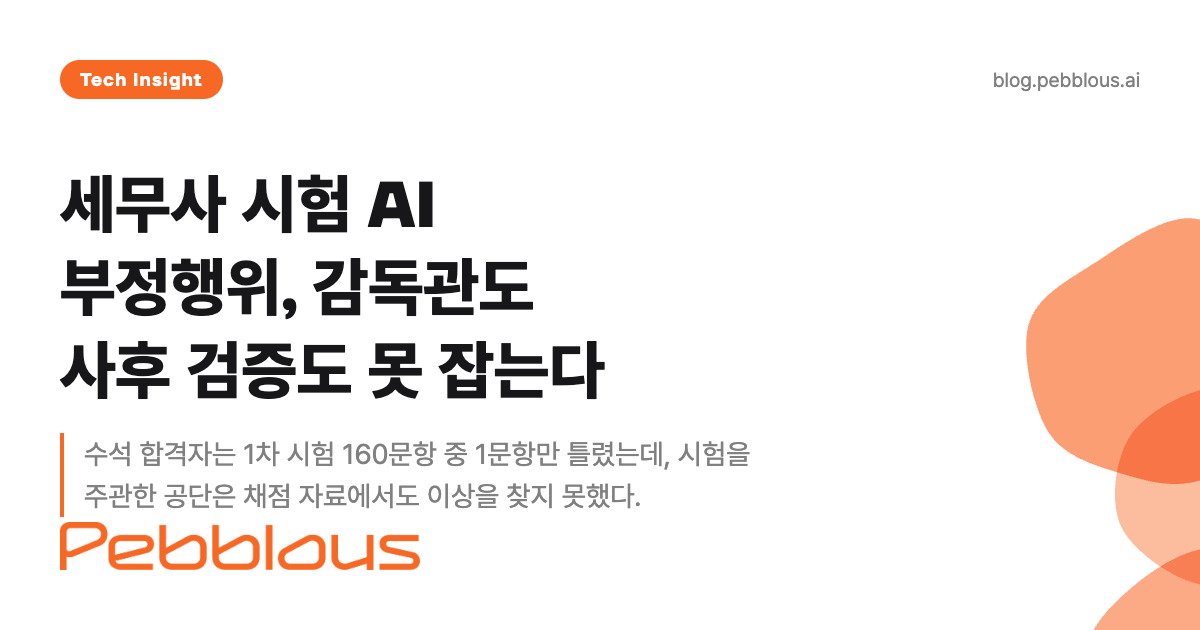
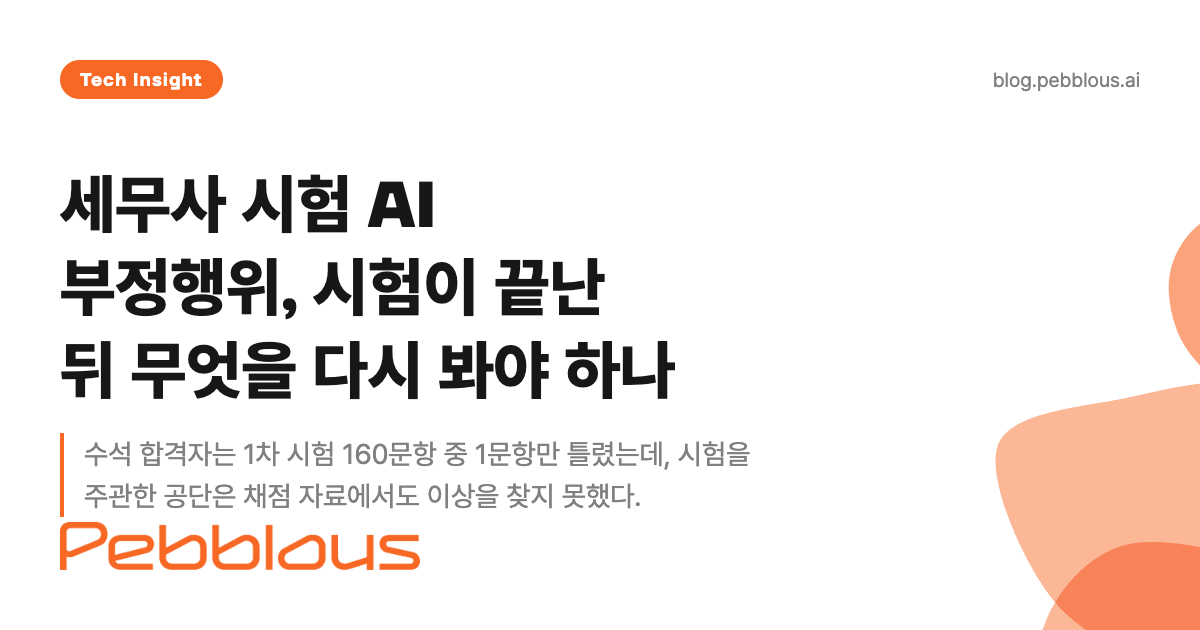
revise(blog): blog/tax-accountant-exam-ai-cheating-detection 수정 — 1. 한국어판만 수정합니다. 기존 부제 문구, 공개 URL과 영문판, 기존 출처 링크 및 기타 무관한

Changed region(s): [[0.8325, 0.3317, 1.0, 1.0], [0.0308, 0.5429, 0.5858, 0.6333], [0.2467, 0.3921, 0.5242, 0.5127]]

diff --git a/blog/tax-accountant-exam-ai-cheating-detection/ko/index.html b/blog/tax-accountant-exam-ai-cheating-detection/ko/index.html
@@ -4,14 +4,14 @@
 <head>
     <meta charset="UTF-8">
     <meta name="viewport" content="width=device-width, initial-scale=1.0">
-    <title>세무사 시험 AI 부정행위 — 감독위원 2명이 놓친 지점과 공단 이상치 선별 기준 정리 | 페블러스</title>
+    <title>세무사 시험 AI 부정행위와 국가자격시험 528종목 전수조사 | 페블러스</title>
     <meta name="author" content="(주)페블러스 데이터 커뮤니케이션팀">
     <meta name="language" content="Korean">
     <meta http-equiv="content-language" content="ko">
     <meta name="copyright" content="© 2026 Pebblous. All rights reserved.">
     <meta name="robots" content="index, follow">
 
-    <meta name="description" content="제63회 세무사 시험 수석 합격자가 초소형 카메라로 문제를 찍어 생성 AI에 보냈다고 자백했다. 1차 시험 160문항 중 1문항만 틀린 답안지였지만 감독위원 보고도 채점 자료 검증도 이상을 찾지 못했다. 사건 뒤 공개된 선별 기준은 모두 채점이 끝난 시점에 계산할 수 있는 값이다.">
+    <meta name="description" content="제63회 세무사 시험 수석 합격자가 초소형 카메라로 문제를 찍어 생성 AI에 보냈다고 자백했다. 보도된 397.5점은 답안지를 다시 볼 신호이지 부정행위의 증거가 아니다. 공단이 528종목 전수조사를 알리며 예로 든 신호와, 그 신호가 제 몫을 하려면 앞에 서야 할 절차를 정리했다.">
     <meta name="keywords" content="세무사 시험 AI 부정행위, 세무사 수석 합격 부정행위, 세무냥이 방지법, 국가자격시험 전수조사, 이상치 탐지, AI 스마트글래스 전파탐지기, 한국산업인력공단, 시험 공정성, 데이터 품질, AI-Ready Data">
 
     <!-- 핵심 검색어 -->
@@ -24,8 +24,8 @@
 
     <!-- Open Graph -->
     <meta property="og:type" content="article">
-    <meta property="og:title" content="세무사 시험 AI 부정행위, 감독관도 사후 검증도 못 잡는다">
-    <meta property="og:description" content="수석 합격자는 1차 시험 160문항 중 1문항만 틀렸는데, 시험을 주관한 공단은 채점 자료에서도 이상을 찾지 못했다. 사건 뒤 발표된 선별 기준은 모두 채점이 끝난 시점에 계산할 수 있는 값이다.">
+    <meta property="og:title" content="세무사 시험 AI 부정행위, 시험이 끝난 뒤 무엇을 다시 봐야 하나">
+    <meta property="og:description" content="수석 합격자는 1차 시험 160문항 중 1문항만 틀렸는데, 시험을 주관한 공단은 채점 자료에서도 이상을 찾지 못했다. 사건 뒤 공개된 신호는 예시이지 검증을 마친 선별 기준이 아니다.">
     <meta property="og:url" content="https://blog.pebblous.ai/blog/tax-accountant-exam-ai-cheating-detection/ko/">
     <meta property="og:image" content="https://blog.pebblous.ai/blog/tax-accountant-exam-ai-cheating-detection/ko/image/index.png">
     <meta property="og:image:width" content="1200">
@@ -37,8 +37,8 @@
 
     <!-- Twitter Card -->
     <meta name="twitter:card" content="summary_large_image">
-    <meta name="twitter:title" content="세무사 시험 AI 부정행위, 감독관도 사후 검증도 못 잡는다">
-    <meta name="twitter:description" content="수석 합격자는 1차 시험 160문항 중 1문항만 틀렸는데, 시험을 주관한 공단은 채점 자료에서도 이상을 찾지 못했다. 사건 뒤 발표된 선별 기준은 모두 채점이 끝난 시점에 계산할 수 있는 값이다.">
+    <meta name="twitter:title" content="세무사 시험 AI 부정행위, 시험이 끝난 뒤 무엇을 다시 봐야 하나">
+    <meta name="twitter:description" content="수석 합격자는 1차 시험 160문항 중 1문항만 틀렸는데, 시험을 주관한 공단은 채점 자료에서도 이상을 찾지 못했다. 사건 뒤 공개된 신호는 예시이지 검증을 마친 선별 기준이 아니다.">
     <meta name="twitter:image" content="https://blog.pebblous.ai/blog/tax-accountant-exam-ai-cheating-detection/ko/image/index.png">
     <meta name="twitter:image:alt" content="시험장 현장 감시와 채점 자료 이상치 탐지가 각각 무엇을 전제하는지 갈라 놓은 표지 이미지">
     <meta name="twitter:site" content="@pebblous_ai">
@@ -88,9 +88,9 @@
                 <h3 class="font-bold themeable-heading mb-4 text-lg">목차</h3>
                 <ul id="toc-links" class="space-y-3 text-sm border-l-2 themeable-toc-border">
                     <li><a href="#executive-summary" class="block pl-4 themeable-toc-link transition-colors duration-200">Executive Summary</a></li>
-                    <li><a href="#two-layers" class="block pl-4 themeable-toc-link transition-colors duration-200">1. 감독위원 바로 앞자리에서 어떻게 가능했나</a></li>
-                    <li><a href="#answer-sheet" class="block pl-4 themeable-toc-link transition-colors duration-200">2. 이상 징후는 답안지에 숫자로 남아 있었다</a></li>
-                    <li><a href="#radio-detector" class="block pl-4 themeable-toc-link transition-colors duration-200">3. 전파탐지기가 찾는 것과 이번 수법은 다르다</a></li>
+                    <li><a href="#two-layers" class="block pl-4 themeable-toc-link transition-colors duration-200">1. 감독위원 두 명이 있던 시험실에서 벌어진 일</a></li>
+                    <li><a href="#answer-sheet" class="block pl-4 themeable-toc-link transition-colors duration-200">2. 397.5점은 재검토 신호이지 증거가 아니다</a></li>
+                    <li><a href="#radio-detector" class="block pl-4 themeable-toc-link transition-colors duration-200">3. 개발 중인 전파탐지기가 겨냥하는 것은 스마트안경이다</a></li>
                     <li><a href="#penalty-bill" class="block pl-4 themeable-toc-link transition-colors duration-200">4. 처벌을 올리는 법안은 적발된 다음에야 작동한다</a></li>
                     <li><a href="#pebblous" class="block pl-4 themeable-toc-link transition-colors duration-200">5. 페블러스가 이 사건에 주목하는 이유</a></li>
                     <li><a href="#faq" class="block pl-4 themeable-toc-link transition-colors duration-200">FAQ</a></li>
@@ -114,7 +114,10 @@
                             제63회 세무사 시험 수석 합격자가 초소형 카메라로 시험지를 찍어 생성 AI에 보내고 스마트폰으로 답을 확인했다고 자백했다. 11월 15일 법률대리인의 유튜브 채널에서 밝힌 내용이고, 같은 날 서울경찰청에 자수서를 냈다. 하루 전까지도 그는 언론 전화 인터뷰에서 의혹을 부인하고 있었다.
                         </p>
                         <p class="themeable-text leading-relaxed mt-4">
-                            시험장에는 사람이 둘 있었다. 한국산업인력공단은 그 시험실에 감독위원 2명이 있었고 1·2차 감독위원 네 명 모두 특이사항이 없었다고 보고했다고 밝혔다. 채점이 끝난 뒤의 검증도 그를 걸러 내지 못했다. 4월 1차 시험에서 그는 160문항 가운데 1문항만 틀려 400점 만점에 397.5점을 받았는데, 그 점수는 사후 검증을 그대로 통과했다. 공단이 사건 뒤 전수조사에 착수하며 공개한 의심 사례 선별 기준은 최근 3년 평균 대비 고득점, 바로 아래 등수와의 점수 차, 과목별 점수 편차, 합격률의 연도별 변동이다. 넷 다 채점이 끝난 시점에 계산할 수 있는 값이다.
+                            시험장에는 사람이 둘 있었다. 한국산업인력공단은 그 시험실에 감독위원 2명이 있었고 1·2차 감독위원 네 명 모두 특이사항이 없었다고 보고했다고 밝혔다. 채점이 끝난 뒤의 검증도 그를 걸러 내지 못했다. 4월 1차 시험 점수는 400점 만점에 397.5점으로 보도됐다. 160문항 가운데 1문항만 틀린 값이지만, 그 자체로 부정행위의 증거는 아니다. 답안지를 다시 볼 이유가 되는 신호일 뿐이다.
+                        </p>
+                        <p class="themeable-text leading-relaxed mt-4">
+                            공단이 전수조사를 알리며 예로 든 신호는 성격이 둘로 갈린다. 최근 3년 평균 대비 고득점, 바로 아래 등수와의 점수 차, 과목별 점수 편차는 응시자 한 사람을 보는 값이다. 합격률의 연도별 변동은 한 시험이나 한 집단을 보는 값이어서, 개인을 가리키지 못한다. 공개된 것은 예시이지 고정된 선별 기준도, 검증을 마친 결과도 아니다.
                         </p>
                         <p class="themeable-text leading-relaxed mt-4">
                             1절부터 4절까지는 보도와 공단·정부 발표에 남은 사실이다. 5절은 페블러스의 해석이다.
@@ -123,12 +126,12 @@
 
                     <h3 class="text-xl font-semibold themeable-heading mt-8 mb-3">주요 수치</h3>
                     <p class="themeable-text leading-relaxed mb-3">감시와 검증이 각각 어디서 멈췄는지는 네 숫자에 드러난다. 새로 만드는 탐지 장비가 완성되는 시점은 올해 치러지는 시험들보다 뒤에 있다.</p>
-                    <p class="themeable-text-secondary text-sm mb-3">출처: <a href="https://www.aitimes.com/news/articleView.html?idxno=217426" target="_blank" rel="noopener" class="underline">AI타임즈</a>·<a href="https://www.hankyung.com/article/202611156922i" target="_blank" rel="noopener" class="underline">한국경제</a> 보도, 한국산업인력공단 전수조사 발표, 한국방송통신전파진흥원 용역 공고.</p>
+                    <p class="themeable-text-secondary text-sm mb-3">출처: <a href="https://www.aitimes.com/news/articleView.html?idxno=217426" target="_blank" rel="noopener" class="underline">AI타임즈</a>·<a href="https://www.hankyung.com/article/202611156922i" target="_blank" rel="noopener" class="underline">한국경제</a> 보도, <a href="https://webzine.hrdkorea.or.kr/section/press/view?id=13805" target="_blank" rel="noopener" class="underline">한국산업인력공단 11월 16일 보도자료</a>, <a href="https://www.kca.kr/" target="_blank" rel="noopener" class="underline">한국방송통신전파진흥원</a> 공고(R26BK01804914-000).</p>
                     <div class="grid grid-cols-2 sm:grid-cols-2 lg:grid-cols-4 gap-4">
                         <div class="themeable-card rounded-xl p-4 text-center">
                             <p class="text-2xl font-bold" style="color: #F86825;">397.5점</p>
-                            <p class="text-sm themeable-text-secondary mt-1">1차 시험 점수</p>
-                            <p class="text-xs themeable-muted mt-1">400점 만점, 160문항 중 1문항 오답. 문항당 2.5점이라 한 문항이 깎인 값이다</p>
+                            <p class="text-sm themeable-text-secondary mt-1">보도된 1차 시험 점수</p>
+                            <p class="text-xs themeable-muted mt-1">400점 만점, 160문항 중 1문항 오답. 다시 볼 이유는 되지만 그 자체가 증거는 아니다</p>
                         </div>
                         <div class="themeable-card rounded-xl p-4 text-center">
                             <p class="text-2xl font-bold" style="color: #F86825;">2명</p>
@@ -138,7 +141,7 @@
                         <div class="themeable-card rounded-xl p-4 text-center">
                             <p class="text-2xl font-bold" style="color: #F86825;">528종목</p>
                             <p class="text-sm themeable-text-secondary mt-1">사건 뒤 착수한 전수조사 범위</p>
-                            <p class="text-xs themeable-muted mt-1">국가기술자격 491종목과 국가전문자격 37종목, 연 응시 인원 약 450만 명</p>
+                            <p class="text-xs themeable-muted mt-1">공단이 시행하는 국가기술자격 491종목과 국가전문자격 37종목</p>
                         </div>
                         <div class="themeable-card rounded-xl p-4 text-center">
                             <p class="text-2xl font-bold" style="color: #F86825;">2027년 2월</p>
@@ -152,15 +155,15 @@
                 <section id="two-layers" class="mb-16 fade-in-card">
                     <div class="flex items-center gap-4 mb-8">
                         <span class="number-badge">1</span>
-                        <h2 class="text-3xl font-bold themeable-heading">감독위원 바로 앞자리에서 어떻게 가능했나</h2>
+                        <h2 class="text-3xl font-bold themeable-heading">감독위원 두 명이 있던 시험실에서 벌어진 일</h2>
                     </div>
 
                     <p class="themeable-text leading-relaxed mb-6">
-                        자수한 응시자는 한원석씨(34)다. 온라인에서 쓰던 이름이 알려지면서 국회가 준비 중인 법안에 그 이름이 붙었다. 그는 4월에 치러진 제63회 세무사 1차 시험에서 160문항 중 159문항을 맞혔고, 7월 2차 시험에서도 높은 점수로 수석 합격했다. 좌석은 1차에서 교단 기준 둘째 줄 중앙, 2차에서 첫째 줄 중앙이었다. 두 번 다 감독위원과 가까운 자리다.
+                        자수한 응시자는 4월에 치러진 제63회 세무사 1차 시험에서 160문항 중 159문항을 맞혔고, 7월 2차 시험에서도 높은 점수로 수석 합격했다고 보도됐다. 온라인에서 쓰던 이름이 알려지면서 국회가 준비 중인 법안에 그 이름이 붙었다.
                     </p>
 
                     <p class="themeable-text leading-relaxed mb-6">
-                        수법은 장비 하나와 통신 하나로 이뤄져 있었다. 초소형 카메라로 시험지를 찍고, 그 이미지를 생성 AI에 보내고, 돌아온 답을 스마트폰에서 확인하는 방식이다. 그는 같은 수법을 공인회계사 1차 시험에도 썼다고 인정했다. 그 시험에서는 불합격했다는 사실이 금융감독원 확인으로 전해졌다.
+                        자백에 담긴 수법은 초소형 카메라로 시험지를 찍어 그 이미지를 생성 AI에 보내고, 돌아온 답을 스마트폰에서 확인하는 방식이다. 본인은 같은 수법을 공인회계사 1차 시험에도 썼다고 인정했다. 그 시험에서는 불합격했다는 사실이 금융감독원 확인으로 전해졌다.
                     </p>
 
                     <p class="themeable-text leading-relaxed mb-6">
@@ -168,7 +171,7 @@
                     </p>
 
                     <p class="themeable-text leading-relaxed mb-6">
-                        본인의 말도 하루 만에 뒤집혔다. 11월 14일 한국경제와의 약 34분 전화 통화에서 그는 AI를 이용한 부정행위 의혹을 말도 안 되는 얘기라고 부인했다. 이튿날 변호인의 유튜브 채널에 나와 입장을 바꿨고, 경제적 어려움과 사업 실패, 서른 중반의 불안을 자백 사유로 들었다.
+                        본인의 말도 하루 만에 뒤집혔다. 11월 14일 한국경제와의 전화 통화에서 그는 AI를 이용한 부정행위 의혹을 말도 안 되는 얘기라고 부인했다. 이튿날 변호인의 유튜브 채널에 나와 입장을 바꿨다.
                     </p>
                 </section>
 
@@ -176,34 +179,41 @@
                 <section id="answer-sheet" class="mb-16 fade-in-card">
                     <div class="flex items-center gap-4 mb-8">
                         <span class="number-badge">2</span>
-                        <h2 class="text-3xl font-bold themeable-heading">이상 징후는 답안지에 숫자로 남아 있었다</h2>
+                        <h2 class="text-3xl font-bold themeable-heading">397.5점은 재검토 신호이지 증거가 아니다</h2>
                     </div>
 
                     <p class="themeable-text leading-relaxed mb-6">
-                        397.5점은 그냥 높은 점수가 아니다. 세무사 1차는 160문항을 400점으로 환산하므로 한 문항이 2.5점이다. 397.5점은 160문항 가운데 정확히 한 문항만 틀렸다는 뜻이고, 이 값은 채점 결과만 있으면 누구나 되짚을 수 있다.
+                        397.5점은 보도로 알려진 점수다. 세무사 1차는 160문항을 400점으로 환산하므로 한 문항이 2.5점이고, 397.5점은 160문항 가운데 한 문항만 틀렸다는 뜻이다. 이 값은 채점 결과만 있으면 되짚을 수 있다. 다만 되짚을 수 있다는 것과 가려낼 수 있다는 것은 다른 말이다. 점수가 높다는 사실은 답안지를 다시 볼 이유가 되지만, 그 자체로는 부정행위를 가리키지 않는다. 그 해 문제가 쉬웠을 수도, 응시자 구성이 달랐을 수도 있다.
                     </p>
 
                     <p class="themeable-text leading-relaxed mb-6">
-                        공단은 사건 뒤 2026년 국가자격시험 AI 활용 부정행위 전수조사에 들어갔다. 대상은 국가기술자격 491종목과 국가전문자격 37종목을 합한 528종목이고, 연간 응시 인원은 약 450만 명이다. 공단이 의심 사례를 가려낼 기준으로 든 것은 넷이다.
+                        비교가 성립하려면 당시의 점수 분포와 바로 아래 등수의 점수를 함께 놓아야 하는데, 그 값들은 공개되지 않았다. 사후 검증이 그때 어떤 수치를 어떤 선으로 봤는지도 마찬가지다. 397.5점이 당시 분포에서 얼마나 떨어져 있었는지는 바깥에서 계산할 수 없다.
+                    </p>
+
+                    <p class="themeable-text leading-relaxed mb-6">
+                        공단은 사건 뒤 2026년 국가자격시험 AI 활용 부정행위 전수조사에 들어갔다. 11월 16일 보도자료가 밝힌 범위는 공단이 시행하는 국가기술자격 491종목과 국가전문자격 37종목, 합해 528종목이다. 공단이 소관하지 않는 시험은 여기에 들어 있지 않다. 공단이 의심 사례를 가려낼 신호로 예시한 것은 넷인데, 보는 단위가 갈린다. 앞의 셋은 응시자 한 사람에게 붙는 값이다.
                     </p>
 
                     <ul class="themeable-text leading-relaxed space-y-3 mb-6 ml-6">
                         <li>최근 3년 평균을 큰 폭으로 웃도는 점수</li>
                         <li>바로 아래 등수와 벌어진 점수 차</li>
                         <li>한 수험생의 과목별 점수 편차</li>
-                        <li>합격률의 연도별 변동</li>
                     </ul>
 
                     <p class="themeable-text leading-relaxed mb-6">
-                        여기에 온라인 커뮤니티 제보와 새로 만든 부정행위 제보센터 접수 건이 더해진다. 걸러진 사례는 세 단계를 거친다. 데이터로 의심 사례를 추리고, 복수의 채점 전문가가 1·2차 답안지를 다시 보고, 전문가 검토회의에서 확정되면 수사를 의뢰한다. 공단은 이미 공개된 건 외에 추가 적발이 있었고, 확인된 사례 가운데 아홉 건을 수사 의뢰했다고 밝혔다.
+                        네 번째인 합격률의 연도별 변동은 성격이 다르다. 한 시험 회차나 한 집단을 보는 값이어서, 어느 응시자를 가리키는 데는 쓸 수 없다. 특정 회차를 들여다볼지 말지를 정하는 입구에 가깝다. 두 종류를 섞어 쓰면 집단에서 나온 변동이 개인의 혐의처럼 읽힌다.
                     </p>
 
                     <p class="themeable-text leading-relaxed mb-6">
-                        다만 전수조사라는 말의 범위는 생각보다 좁다. 528종목의 답안지를 모두 다시 채점한다는 뜻이 아니라, 위 네 지표로 의심 사례를 추려 들여다볼 대상을 전체 종목으로 넓힌다는 뜻이다. 세무사 시험은 따로 떼어 최근 3~5년 합격자의 성적을 다시 보는 작업도 함께 돌아가고 있다. 지표가 도는 시점은 여전히 시험이 끝난 뒤이고, 실효성을 묻는 비판도 그래서 나왔다.
+                        여기에 온라인 커뮤니티 제보와 새로 만든 부정행위 제보센터 접수 건이 더해진다. 걸러진 사례는 단계를 밟는다. 데이터로 의심 사례를 추리고, 복수의 채점 전문가가 1·2차 답안지를 다시 보고, 명확히 의심된다고 판단될 때 수사를 의뢰한다. 수사 의뢰는 조사의 시작이지 부정행위가 확정됐다는 뜻이 아니다. 같은 보도자료에 적힌 스마트안경 적발 및 수사의뢰 12건은 올해 앞서 처리한 사례이고, 이번 전수조사가 새로 찾아낸 결과가 아니다.
                     </p>
 
                     <p class="themeable-text leading-relaxed mb-6">
-                        네 기준 가운데 앞의 둘은 이번 답안지와 정면으로 맞닿는다. 최근 3년 평균 대비 고득점과 바로 아래 등수와의 점수 차는, 160문항 중 한 문항만 틀린 수석 답안지를 설명하기 위해 만들어진 것처럼 보일 만큼 겹친다. 그런데 이 기준들은 사건이 터진 뒤에 공개됐고, 그전에 돌아간 사후 검증은 이상 징후를 찾지 못했다고 기록돼 있다.
+                        전수조사라는 말의 범위도 생각보다 좁다. 528종목의 답안지를 모두 다시 채점한다는 뜻이 아니라, 위 신호로 의심 사례를 추려 들여다볼 대상을 전체 종목으로 넓힌다는 뜻이다. 세무사 시험은 따로 떼어 최근 3~5년 합격자의 성적을 다시 보는 작업도 함께 돌아가고 있다. 지표가 도는 시점은 여전히 시험이 끝난 뒤이고, 실효성을 묻는 비판도 그래서 나왔다.
+                    </p>
+
+                    <p class="themeable-text leading-relaxed mb-6">
+                        공개된 신호가 이번 답안지를 실제로 걸러 냈을지는 알 수 없다. 넷은 전수조사를 알리며 든 예시이지 검증을 마친 기준이 아니고, 어느 선을 넘겨야 걸리는지도 밝혀지지 않았다. 반대로 그전에는 아무 기준도 없었다고 말할 근거 역시 없다. 밖에서 확인되는 사실은 둘뿐이다. 그때의 검증은 이 답안지를 걸러 내지 못했고, 기준의 내용은 사건 뒤에야 일부가 공개됐다.
                     </p>
                 </section>
 
@@ -211,11 +221,15 @@
                 <section id="radio-detector" class="mb-16 fade-in-card">
                     <div class="flex items-center gap-4 mb-8">
                         <span class="number-badge">3</span>
-                        <h2 class="text-3xl font-bold themeable-heading">전파탐지기가 찾는 것과 이번 수법은 다르다</h2>
+                        <h2 class="text-3xl font-bold themeable-heading">개발 중인 전파탐지기가 겨냥하는 것은 스마트안경이다</h2>
                     </div>
 
                     <p class="themeable-text leading-relaxed mb-6">
-                        한국방송통신전파진흥원은 AI 스마트글래스 전파탐지기기 개발 용역을 발주했다. 사업비는 5,000만 원, 조건은 계약 뒤 70일 안에 시제품을 내는 것이다. 제안서 평가는 11월 20일로 잡혀 있고 개발 완료 목표는 2027년 2월이라, 11월 19일 치러지는 수능에는 쓸 수 없다는 점을 진흥원도 확인했다. 발주 시점은 보도마다 10월 26일과 11월 2일로 엇갈리는데, 어느 쪽이든 11월 15일의 자백보다는 앞선다.
+                        한국방송통신전파진흥원은 AI 스마트글래스 전파탐지기기 개발 용역을 발주했다. 공고번호는 R26BK01804914-000이다. 사업비는 5,000만 원, 조건은 계약 뒤 70일 안에 시제품을 내는 것이다. 제안서 평가는 11월 20일로 잡혀 있고 개발 완료 목표는 2027년 2월이라, 11월 19일 치러지는 수능에는 쓸 수 없다는 점을 진흥원도 확인했다.
+                    </p>
+
+                    <p class="themeable-text leading-relaxed mb-6">
+                        발주 날짜가 두 개로 읽히는 것은 절차가 두 단계이기 때문이다. 진흥원 기준으로 10월 26일은 사전규격을 공개한 날이고, 11월 2일은 입찰을 공고한 날이다. 둘 다 11월 15일의 자백보다 앞선다. 이 사업이 만들려는 것은 스마트안경을 찾는 장비다.
                     </p>
 
                     <p class="themeable-text leading-relaxed mb-6">
@@ -223,45 +237,40 @@
                     </p>
 
                     <p class="themeable-text leading-relaxed mb-6">
-                        장비가 작동하는 방식은 두 단계다. 먼저 저전력 블루투스 신호로 스마트안경의 존재와 제조사를 가려내고, 그다음 와이파이 통신량과 송수신 패턴을 분석해 문제를 찍어 외부로 보내는 듯한 움직임을 찾는다. 가로 14cm·세로 9.5cm로 보조배터리만 한 크기이고, 감독관이 들고 다니다 의심 신호가 잡히면 화면과 LED와 진동으로 알린다. 개발의 핵심 난제는 스마트폰·스마트워치·무선이어폰을 스마트안경과 구분해 헛경보를 줄이는 일이다.
+                        용역이 정한 탐지 대상은 스마트안경이다. 감독관이 들고 다니며 시험실에서 쓰는 휴대 장비를 전제로 하고, 개발의 핵심 난제로 꼽힌 것은 스마트폰·스마트워치·무선이어폰을 스마트안경과 구분해 헛경보를 줄이는 일이다. 일상적으로 쓰이는 기기를 그대로 경보로 올리면 시험장에서 쓸 수 없기 때문이다.
                     </p>
 
                     <p class="themeable-text leading-relaxed mb-6">
-                        그 난제가 이번 사건과 어긋나는 자리다. 한씨가 쓴 장비는 스마트안경이 아니라 초소형 카메라였고, 답을 받은 통로는 스마트폰이었다. 1단계가 찾도록 설계된 대상은 그의 손에 없었고, 2단계가 헛경보를 막으려고 걸러 내야 하는 쪽에 그의 단말이 놓인다. 국민의힘 장동혁 대표도 스마트안경만 잡는다고 막을 수 있는 상황이 아니라고 말했다.
+                        이번에 자백으로 알려진 장비는 초소형 카메라와 스마트폰이었다. 둘은 용역이 겨냥한 스마트안경과 다른 기기이고, 스마트폰은 헛경보를 줄이려고 구분해 내야 하는 쪽에 놓인다. 장비가 완성되기 전이라 이런 수법을 실제로 잡아낼지 놓칠지는 단정할 수 없다. 확인되는 것은 설계된 탐지 대상과 이번에 쓰인 기기가 같지 않다는 사실까지다. 국민의힘 장동혁 대표도 스마트안경만 잡는다고 막을 수 있는 상황이 아니라고 말했다.
                     </p>
 
                     <figure class="my-8">
-                        <svg viewBox="0 0 680 270" class="w-full max-w-[660px] h-auto mx-auto rounded-xl border themeable-border" style="background:var(--card-bg, #ffffff)" role="img" aria-label="전파탐지기의 2단계 탐지 구조에 이번 사건 장비를 겹쳐 놓은 도식. 1단계는 블루투스 신호로 스마트안경의 존재와 제조사를 찾는데 초소형 카메라는 이 신호를 내지 않는다. 2단계는 와이파이 통신 패턴으로 외부 전송 의심 행위를 찾는데 스마트폰은 헛경보를 막으려고 걸러 내야 하는 쪽에 있다.">
-                            <text x="24" y="28" font-size="12.5" font-weight="600" fill="var(--text-secondary)">전파탐지기 2단계와 이번 장비가 어긋나는 자리</text>
+                        <svg viewBox="0 0 680 230" class="w-full max-w-[660px] h-auto mx-auto rounded-xl border themeable-border" style="background:var(--card-bg, #ffffff)" role="img" aria-label="용역이 정한 탐지 대상과 이번에 자백으로 알려진 기기를 나란히 놓은 도식. 왼쪽은 개발 중인 장비가 겨냥하는 스마트안경, 오른쪽은 이번에 쓰인 초소형 카메라와 스마트폰이며, 스마트폰은 헛경보를 줄이려고 구분해 내야 하는 쪽에 놓인다.">
+                            <text x="24" y="28" font-size="12.5" font-weight="600" fill="var(--text-secondary)">용역이 정한 탐지 대상과 이번에 알려진 기기</text>
 
-                            <rect x="30" y="48" width="290" height="110" rx="10" fill="none" stroke="var(--text-muted)" stroke-width="1.2" opacity="0.6"/>
-                            <text x="175" y="72" text-anchor="middle" font-size="12.5" font-weight="600" fill="var(--text-secondary)">1단계 · 블루투스 탐지</text>
-                            <text x="175" y="94" text-anchor="middle" font-size="11" fill="var(--text-muted)">찾는 대상: 스마트안경의 신호</text>
-                            <text x="175" y="114" text-anchor="middle" font-size="11" fill="var(--text-muted)">존재와 제조사 확인</text>
-                            <text x="175" y="140" text-anchor="middle" font-size="11" font-weight="600" fill="#F86825">초소형 카메라엔 이 신호가 없다</text>
+                            <rect x="30" y="52" width="290" height="140" rx="10" fill="none" stroke="var(--text-muted)" stroke-width="1.2" opacity="0.6"/>
+                            <text x="175" y="80" text-anchor="middle" font-size="12.5" font-weight="600" fill="var(--text-secondary)">개발 중인 전파탐지기</text>
+                            <text x="175" y="106" text-anchor="middle" font-size="11" fill="var(--text-muted)">탐지 대상: 스마트안경</text>
+                            <text x="175" y="128" text-anchor="middle" font-size="11" fill="var(--text-muted)">감독관이 들고 다니는 휴대 장비</text>
+                            <text x="175" y="158" text-anchor="middle" font-size="11" fill="var(--text-muted)">핵심 난제: 일상 기기와 구분해</text>
+                            <text x="175" y="176" text-anchor="middle" font-size="11" fill="var(--text-muted)">헛경보 줄이기</text>
 
-                            <text x="340" y="108" text-anchor="middle" font-size="16" fill="var(--text-muted)">→</text>
+                            <text x="340" y="126" text-anchor="middle" font-size="16" fill="var(--text-muted)">↔</text>
 
-                            <rect x="360" y="48" width="290" height="110" rx="10" fill="none" stroke="var(--text-muted)" stroke-width="1.2" opacity="0.6"/>
-                            <text x="505" y="72" text-anchor="middle" font-size="12.5" font-weight="600" fill="var(--text-secondary)">2단계 · 와이파이 분석</text>
-                            <text x="505" y="94" text-anchor="middle" font-size="11" fill="var(--text-muted)">찾는 대상: 통신량·송수신 패턴</text>
-                            <text x="505" y="114" text-anchor="middle" font-size="11" fill="var(--text-muted)">외부 전송 의심 행위 탐지</text>
-                            <text x="505" y="140" text-anchor="middle" font-size="11" font-weight="600" fill="#F86825">스마트폰은 걸러내야 하는 쪽</text>
-
-                            <line x1="195" y1="158" x2="260" y2="192" stroke="var(--text-muted)" stroke-width="1.2" stroke-dasharray="4,3"/>
-                            <line x1="485" y1="158" x2="420" y2="192" stroke="var(--text-muted)" stroke-width="1.2" stroke-dasharray="4,3"/>
-
-                            <rect x="175" y="192" width="330" height="54" rx="10" fill="none" stroke="#F86825" stroke-width="1.8"/>
-                            <text x="340" y="214" text-anchor="middle" font-size="12.5" font-weight="600" fill="#F86825">한씨가 쓴 장비</text>
-                            <text x="340" y="234" text-anchor="middle" font-size="11" fill="var(--text-secondary)">초소형 카메라 + 스마트폰</text>
+                            <rect x="360" y="52" width="290" height="140" rx="10" fill="none" stroke="#F86825" stroke-width="1.8"/>
+                            <text x="505" y="80" text-anchor="middle" font-size="12.5" font-weight="600" fill="#F86825">이번에 알려진 기기</text>
+                            <text x="505" y="106" text-anchor="middle" font-size="11" fill="var(--text-secondary)">초소형 카메라 + 스마트폰</text>
+                            <text x="505" y="128" text-anchor="middle" font-size="11" fill="var(--text-muted)">스마트안경과 다른 기기</text>
+                            <text x="505" y="158" text-anchor="middle" font-size="11" font-weight="600" fill="#F86825">스마트폰은 구분해 내야 하는 쪽</text>
+                            <text x="505" y="176" text-anchor="middle" font-size="11" fill="var(--text-muted)">실제 탐지 여부는 확인되지 않았다</text>
                         </svg>
                         <figcaption class="text-xs themeable-muted text-center mt-2">
-                            ▲ 페블러스 원본 도식. 전파탐지기의 2단계 탐지 구조에 이번 사건 장비를 겹쳐 놓았다
+                            ▲ 페블러스 원본 도식. 용역 공고가 적은 탐지 대상과 이번 자백에 나온 기기를 나란히 놓았다
                         </figcaption>
                     </figure>
 
                     <p class="themeable-text leading-relaxed mb-6">
-                        이 장비를 쓸모없다고 말하려는 것은 아니다. 올해 소방설비기사와 정보처리기사 등에서 스마트안경을 쓴 부정행위가 실제로 적발됐고, 그 수법에는 현장 탐지가 가장 빠른 답이다. 스마트안경 수법만 따로 세면 지난달 말 기준 올해 국가자격시험에서 적발된 건수는 여섯 건으로, 사건 뒤 전수조사에서 수사 의뢰로 넘어간 아홉 건과는 세는 대상이 다르다. 다만 현장 장비는 탐지 대상 목록에 올라 있는 것만 찾는다. 수법이 하나 바뀌면 그 목록도 그만큼 다시 써야 한다.
+                        이 장비를 쓸모없다고 말하려는 것은 아니다. 공단은 11월 16일 보도자료에서 올해 스마트안경 적발 및 수사의뢰 12건을 이미 처리했다고 밝혔다. 이번 전수조사가 새로 찾아낸 수가 아니라 그에 앞서 쌓인 건수다. 스마트안경을 쓰는 수법이 실제로 있었다는 뜻이고, 그 수법에는 현장 탐지가 가장 빠른 답이다. 다만 현장 장비는 탐지 대상 목록에 올라 있는 것을 찾는다. 수법이 하나 바뀌면 그 목록도 그만큼 다시 써야 한다.
                     </p>
                 </section>
 
@@ -277,7 +286,7 @@
                     </p>
 
                     <p class="themeable-text leading-relaxed mb-6">
-                        법안보다 먼저 움직인 것은 행정 처분이다. 고용노동부와 공단은 이 합격자에게 시험 무효와 5년간 응시 자격 정지를 사전 통지하는 절차에 들어갔고, 업무방해 혐의로 형사 고소하기로 했다. 위계공무집행방해와 업무방해는 조문이 다르고, 지금은 두 죄명이 함께 거론되는 단계다. 재정경제부와 국세청, 공단은 대응 TF 첫 회의를 열었다. 지금 논의되는 5년에서 10년이라는 숫자는, 이미 이 사건에 적용되고 있는 5년을 두 배로 늘리자는 말이다.
+                        법안보다 먼저 움직인 것은 행정 절차다. <a href="https://www.moel.go.kr/news/enews/report/enewsView.do?news_seq=20256" target="_blank" rel="noopener" class="underline">고용노동부 발표</a>에 따르면 고용노동부와 공단은 이 응시자에 대해 시험 무효화와 합격 취소, 5년 응시 제한 절차를 추진하고 있고, 업무방해 혐의로 형사 고소하기로 했다. 추진 중인 절차이지 처분이 확정된 단계는 아니다. 위계공무집행방해와 업무방해는 조문이 다르고, 지금은 두 죄명이 함께 거론되고 있다. 재정경제부와 국세청, 공단은 대응 TF 첫 회의를 열었다.
                     </p>
 
                     <p class="themeable-text leading-relaxed mb-6">
@@ -297,7 +306,7 @@
                     </div>
 
                     <p class="themeable-text leading-relaxed mb-6">
-                        시험장을 지켜 온 두 장치는 성격이 다르다. 현장 감시는 수법을 알아야 작동한다. 무엇을 찾을지 먼저 적어야 장비를 만들 수 있고, 적지 않은 것은 눈앞에 있어도 지나간다. 반면 채점 자료의 이상치 탐지는 수법을 몰라도 작동한다. 어떻게 맞혔는지가 아니라 결과가 다른 응시자들과 얼마나 떨어져 있는지만 보기 때문이다.
+                        시험장을 지켜 온 두 장치는 성격이 다르다. 현장 감시는 수법을 알아야 작동한다. 무엇을 찾을지 먼저 적어야 장비를 만들 수 있고, 적지 않은 것은 눈앞에 있어도 지나간다. 채점 자료를 보는 쪽은 수법을 몰라도 움직인다. 어떻게 맞혔는지가 아니라 결과가 다른 응시자들과 얼마나 떨어져 있는지를 보기 때문이다. 다만 그렇게 걸리는 것은 혐의가 아니라 검토 대상이다. 통계로 도드라지는 답안지는 사람이 다시 볼 목록에 오를 뿐이다.
                     </p>
 
                     <figure class="my-8">
@@ -313,28 +322,28 @@
                             <rect x="360" y="56" width="290" height="128" rx="10" fill="none" stroke="#F86825" stroke-width="1.8"/>
                             <text x="505" y="82" text-anchor="middle" font-size="12.5" font-weight="600" fill="#F86825">채점 자료 이상치 탐지</text>
                             <text x="505" y="108" text-anchor="middle" font-size="11" fill="var(--text-muted)">미리 알아야 하는 것: 비교 기준</text>
-                            <text x="505" y="130" text-anchor="middle" font-size="11" fill="var(--text-muted)">지난 몇 해의 점수 분포와 선</text>
-                            <text x="505" y="160" text-anchor="middle" font-size="11" fill="#F86825">수법을 몰라도 결과로 걸린다</text>
+                            <text x="505" y="130" text-anchor="middle" font-size="11" fill="var(--text-muted)">회차별 난이도와 응시자 구성</text>
+                            <text x="505" y="160" text-anchor="middle" font-size="11" fill="#F86825">수법을 몰라도 검토 대상은 좁힌다</text>
                         </svg>
                         <figcaption class="text-xs themeable-muted text-center mt-2">
-                            ▲ 페블러스 원본 도식. 공단이 공개한 선별 기준과 진흥원 용역 공고에 적힌 탐지 방식을 나란히 놓았다
+                            ▲ 페블러스 원본 도식. 공단이 예로 든 신호와 진흥원 용역 공고가 정한 탐지 대상을 나란히 놓았다. 어느 쪽도 그 자체로 부정행위를 확정하지 않는다
                         </figcaption>
                     </figure>
 
                     <p class="themeable-text leading-relaxed mb-6">
-                        다만 뒤쪽이 작동하려면 사건 전에 세 가지가 이미 있어야 한다. 비교할 과거 분포가 같은 형식으로 쌓여 있어야 하고, 어디서부터를 이상으로 볼지 선이 그어져 있어야 하고, 걸린 사례를 사람이 다시 볼 절차가 있어야 한다. 공단이 이번에 공개한 네 기준은 첫 번째를 전제로 한다. 최근 3년 평균도, 등수 사이의 점수 차도, 과목별 편차도, 응시자 점수가 연도별로 정리돼 있어야 계산되는 값이다.
+                        다만 그 목록이 쓸 만하려면 사건 전에 몇 가지가 이미 서 있어야 한다. 첫째는 비교다. 회차마다 문제의 난이도가 다르고 응시자 구성도 달라지니, 그 차이를 고려하지 않은 점수 비교는 다른 해의 쉬운 시험을 이상으로 만들어 버린다. 둘째는 오탐 점검이다. 정상적으로 공부해 잘 본 응시자가 목록에 올라오는 비율을 재 보지 않으면, 선을 어디에 그었는지 아무도 설명할 수 없다. 공단이 예로 든 신호도 응시자 점수가 연도별로 같은 형식으로 쌓여 있어야 계산된다.
                     </p>
 
                     <p class="themeable-text leading-relaxed mb-6">
-                        그 값들은 사건 전에도 있었다. 4월 1차 채점이 끝난 순간 397.5점도, 2위와의 격차도 이미 자료 안에 있었다. 나중에 만들어진 것은 자료가 아니라 선과 절차다. 공단이 사후 검증에서 정확히 어떤 값을 어떤 기준으로 봤는지는 공개되지 않았으니, 기준이 아예 없었다고까지 단정할 수는 없다. 분명한 것은 그때의 기준이 이 답안지를 걸러 내지 못했고, 지금 발표된 기준은 걸러 낼 법해 보인다는 점이다.
+                        셋째는 신호 다음에 오는 절차다. 통계로 좁힌 대상은 독립적인 증거로 뒷받침되어야 하고, 복수의 사람이 따로 검토해야 하며, 당사자에게 소명할 기회가 주어져야 한다. 이 순서가 지켜질 때 통계는 제 몫을 한다. 사람에게 볼 곳을 알려 주는 일까지다. 어떤 수치가 선을 넘었다는 이유만으로 제재가 자동으로 따라붙는 설계는, 틀렸을 때 되돌릴 자리를 남기지 않는다. 시험 보안을 다루는 일반 원칙은 미국심리학회의 <a href="https://www.apa.org/science/programs/testing/test-security-faq.html" target="_blank" rel="noopener" class="underline">시험 보안 문답</a> 같은 자료에 정리돼 있다. 한국의 법제나 공단의 운영 방침을 설명하는 문서는 아니고, 이런 원칙을 견주어 볼 참고 자료다.
                     </p>
 
                     <p class="themeable-text leading-relaxed mb-6">
-                        데이터를 다루는 일에서 되풀이되는 모양이 여기 있다. 자료가 없어서 못 보는 경우와, 자료는 있는데 무엇을 이상으로 볼지 정해 두지 않아 못 보는 경우는 전혀 다른 문제이고, 둘 다 겉으로는 똑같이 이상 없음으로 보고된다. 사건이 나야 기준이 만들어지는 체계에서는 매번 사건이 기준보다 먼저 온다.
+                        데이터를 다루는 일에서 되풀이되는 모양이 여기 있다. 자료가 없어서 못 보는 경우와, 자료는 있는데 무엇을 이상으로 볼지 정해 두지 않아 못 보는 경우는 전혀 다른 문제이고, 둘 다 겉으로는 똑같이 이상 없음으로 보고된다. 이번 사건에서 밖으로 확인되는 것은 그때의 검증이 이 답안지를 걸러 내지 못했다는 사실까지다. 어느 쪽이었는지는 그때 무엇을 어떤 선으로 봤는지가 공개되어야 갈린다.
                     </p>
 
                     <p class="themeable-text leading-relaxed mb-6">
-                        전수조사라는 말도 같은 자리에서 읽힌다. 528종목을 한 번 훑는 일이 있고, 시험이 끝날 때마다 같은 지표가 자동으로 돌아 상위 몇 건이 사람에게 올라오는 일이 있다. 앞쪽은 한 번의 사업이고 뒤쪽은 상시로 도는 데이터 파이프라인이다. 둘 중 무엇을 만들었는지는 다음 시험이 끝난 다음 주에 드러난다.
+                        전수조사라는 말도 같은 자리에서 읽힌다. 528종목을 한 번 훑는 일이 있고, 시험이 끝날 때마다 같은 신호가 자동으로 돌아 몇 건이 사람의 검토 목록에 올라오는 일이 있다. 앞쪽은 한 번의 사업이고 뒤쪽은 상시로 도는 데이터 파이프라인이다. 둘 중 무엇을 만들었는지는 다음 시험이 끝난 다음 주에 드러난다.
                     </p>
                 </section>
 
@@ -357,17 +366,25 @@
                         </button>
                     </div>
 
+                    <h3 class="text-xl font-semibold themeable-heading mb-4">1차 자료</h3>
+                    <ul class="reference-list mb-6">
+                        <li><span class="ref-num">1.</span><span class="ref-body">한국산업인력공단. (2026.11.16.). "<a href="https://webzine.hrdkorea.or.kr/section/press/view?id=13805" target="_blank" rel="noopener">보도자료</a>." 전수조사 범위(국가기술자격 491종목·국가전문자격 37종목), 의심 사례 선별·검토 절차, 올해 스마트안경 적발 및 수사의뢰 12건.</span></li>
+                        <li><span class="ref-num">2.</span><span class="ref-body">고용노동부. (2026.11.). "<a href="https://www.moel.go.kr/news/enews/report/enewsView.do?news_seq=20256" target="_blank" rel="noopener">보도자료</a>." 시험 무효화·합격 취소·5년 응시 제한 절차 추진, 업무방해 형사 고소 방침.</span></li>
+                        <li><span class="ref-num">3.</span><span class="ref-body">한국방송통신전파진흥원. (2026). "AI 스마트글래스 전파탐지기기 개발 용역" 공고 R26BK01804914-000 — 10월 26일 사전규격 공개, 11월 2일 입찰공고. 발주기관 <a href="https://www.kca.kr/" target="_blank" rel="noopener">한국방송통신전파진흥원</a>.</span></li>
+                        <li><span class="ref-num">4.</span><span class="ref-body">American Psychological Association. "<a href="https://www.apa.org/science/programs/testing/test-security-faq.html" target="_blank" rel="noopener">Test Security FAQ</a>." 시험 보안의 일반 원칙 참고 자료(한국 법제·공단 운영 방침과는 무관).</span></li>
+                    </ul>
+
                     <h3 class="text-xl font-semibold themeable-heading mb-4">사건 보도</h3>
                     <ul class="reference-list mb-6">
-                        <li><span class="ref-num">1.</span><span class="ref-body">AI타임즈. (2026.11.15.). "<a href="https://www.aitimes.com/news/articleView.html?idxno=217426" target="_blank" rel="noopener">세무사 시험 수석 합격자 "생성 AI로 부정행위" 자백</a>."</span></li>
-                        <li><span class="ref-num">2.</span><span class="ref-body">한국경제. (2026.11.15.). "<a href="https://www.hankyung.com/article/202611156922i" target="_blank" rel="noopener">세무사 수석 충격 자백…초소형 카메라로 찍어 AI로 전송</a>."</span></li>
-                        <li><span class="ref-num">3.</span><span class="ref-body">한국경제. (2026.11.16.). "<a href="https://www.hankyung.com/article/2026111602241" target="_blank" rel="noopener">정부 "수능날 스마트폰 수거·공공 와이파이 차단"</a>."</span></li>
+                        <li><span class="ref-num">5.</span><span class="ref-body">AI타임즈. (2026.11.15.). "<a href="https://www.aitimes.com/news/articleView.html?idxno=217426" target="_blank" rel="noopener">세무사 시험 수석 합격자 "생성 AI로 부정행위" 자백</a>."</span></li>
+                        <li><span class="ref-num">6.</span><span class="ref-body">한국경제. (2026.11.15.). "<a href="https://www.hankyung.com/article/202611156922i" target="_blank" rel="noopener">세무사 수석 충격 자백…초소형 카메라로 찍어 AI로 전송</a>."</span></li>
+                        <li><span class="ref-num">7.</span><span class="ref-body">한국경제. (2026.11.16.). "<a href="https://www.hankyung.com/article/2026111602241" target="_blank" rel="noopener">정부 "수능날 스마트폰 수거·공공 와이파이 차단"</a>."</span></li>
                     </ul>
 
                     <h3 class="text-xl font-semibold themeable-heading mb-4">제도·예산 보도</h3>
                     <ul class="reference-list mb-6">
-                        <li><span class="ref-num">4.</span><span class="ref-body">싱글리스트. (2026.11.13.). "<a href="https://www.slist.kr/news/articleView.html?idxno=781437" target="_blank" rel="noopener">국가자격시험 AI 스마트안경 부정행위 대응…65억여원 증액 추진</a>."</span></li>
-                        <li><span class="ref-num">5.</span><span class="ref-body">김진욱. 딜사이트. (2026.11.16.). "<a href="https://dealsite.co.kr/articles/172909" target="_blank" rel="noopener">세무사 시험에서 국가자격시험 전반으로…정부, AI 부정행위 조사</a>."</span></li>
+                        <li><span class="ref-num">8.</span><span class="ref-body">싱글리스트. (2026.11.13.). "<a href="https://www.slist.kr/news/articleView.html?idxno=781437" target="_blank" rel="noopener">국가자격시험 AI 스마트안경 부정행위 대응…65억여원 증액 추진</a>."</span></li>
+                        <li><span class="ref-num">9.</span><span class="ref-body">김진욱. 딜사이트. (2026.11.16.). "<a href="https://dealsite.co.kr/articles/172909" target="_blank" rel="noopener">세무사 시험에서 국가자격시험 전반으로…정부, AI 부정행위 조사</a>."</span></li>
                     </ul>
                 </section>
 
@@ -405,9 +422,9 @@
               },
               "recordedAt": "2026-11-16T18:17:42.271Z"
             },
-            mainTitle: "세무사 시험 AI 부정행위, 감독관도 사후 검증도 못 잡는다",
+            mainTitle: "세무사 시험 AI 부정행위, 시험이 끝난 뒤 무엇을 다시 봐야 하나",
             subtitle: "수석 합격자는 1차 시험 160문항 중 1문항만 틀렸는데, 시험을 주관한 공단은 채점 자료에서도 이상을 찾지 못했다",
-            pageTitle: "세무사 시험 AI 부정행위 — 감독위원 2명이 놓친 지점과 공단 이상치 선별 기준 정리 | 페블러스",
+            pageTitle: "세무사 시험 AI 부정행위와 국가자격시험 528종목 전수조사 | 페블러스",
             category: "tech",
             publishDate: "2026-11-17",
             publisher: "(주)페블러스 데이터 커뮤니케이션팀",
@@ -417,39 +434,43 @@
             faqs: [
                 {
                     question: "세무사 시험 AI 부정행위는 어떤 방식이었나?",
-                    answer: "자백에 따르면 초소형 카메라로 시험지를 찍어 그 이미지를 생성 AI에 보내고, 돌아온 답을 스마트폰에서 확인하는 방식이다. 보도로 알려진 AI 스마트글래스 수법과는 장비가 다르다. 본인은 공인회계사 1차 시험에도 같은 방식을 썼다고 인정했고, 그 시험에서는 불합격했다."
+                    answer: "자백에 따르면 초소형 카메라로 시험지를 찍어 그 이미지를 생성 AI에 보내고, 돌아온 답을 스마트폰에서 확인하는 방식이다. 보도로 알려진 AI 스마트글래스 수법과는 기기가 다르다. 본인은 공인회계사 1차 시험에도 같은 방식을 썼다고 인정했고, 그 시험에서는 불합격했다."
                 },
                 {
                     question: "감독위원이 둘이나 있었는데 왜 못 봤나?",
-                    answer: "공단 설명으로는 해당 시험실에 감독위원 2명이 있었고 1·2차 감독위원 네 명 모두 특이사항 없음으로 보고했다. 교실에는 CCTV가 없었다. 좌석도 1차 둘째 줄 중앙, 2차 첫째 줄 중앙으로 감독위원과 가까운 자리였다. 사람이 눈으로 보는 감시는 초소형 카메라처럼 겉으로 드러나지 않는 장비에 약하다는 것이 이번 사건으로 드러난 셈이다."
+                    answer: "공단 설명으로는 해당 시험실에 감독위원 2명이 있었고 1·2차 감독위원 네 명 모두 특이사항 없음으로 보고했다. 교실에는 CCTV가 없었다. 사람이 눈으로 보는 감시는 초소형 카메라처럼 겉으로 드러나지 않는 기기에 약하다는 것이 이번 사건으로 드러난 셈이다."
                 },
                 {
                     question: "사후 검증은 무엇을 보는 절차인가?",
                     answer: "공단은 감독위원 진술과 1차 채점 자료 등을 점검하는 절차를 갖고 있었다고 밝혔다. 이번 사례에서는 그 두 겹이 모두 이상 징후를 찾지 못했다. 다만 그때 어떤 수치를 어떤 선으로 봤는지는 공개되지 않아, 기준 자체가 없었는지 기준은 있었으나 이 답안지가 걸리지 않았는지는 밖에서 가릴 수 없다."
                 },
                 {
-                    question: "공단이 발표한 이상 사례 선별 기준은 무엇인가?",
-                    answer: "넷이다. 최근 3년 평균을 큰 폭으로 웃도는 점수, 바로 아래 등수와 벌어진 점수 차, 한 수험생의 과목별 점수 편차, 합격률의 연도별 변동이다. 여기에 온라인 커뮤니티 제보와 신설된 부정행위 제보센터 접수 건이 더해진다. 걸러진 사례는 복수의 채점 전문가가 답안지를 다시 보고, 전문가 검토회의에서 확정되면 수사 의뢰로 넘어간다."
+                    question: "공단이 예로 든 의심 사례 신호는 무엇인가?",
+                    answer: "11월 16일 보도자료가 예시한 것은 넷인데 보는 단위가 갈린다. 최근 3년 평균을 큰 폭으로 웃도는 점수, 바로 아래 등수와 벌어진 점수 차, 한 수험생의 과목별 점수 편차는 응시자 한 사람에게 붙는 값이다. 합격률의 연도별 변동은 한 시험이나 한 집단을 보는 값이어서 특정 응시자를 가리키지 못한다. 넷은 예시이지 고정된 선별 기준이나 검증을 마친 결과가 아니고, 어느 선을 넘겨야 걸리는지도 공개되지 않았다."
                 },
                 {
                     question: "전수조사 대상 528종목은 어떻게 나온 수인가?",
-                    answer: "국가기술자격 491종목과 국가전문자격 37종목을 합한 수다. 연간 응시 인원은 약 450만 명으로 집계된다. 다만 전수조사는 모든 시험을 다시 채점한다는 뜻이 아니라, 위 지표로 의심 사례를 추려 들여다볼 대상을 전체 종목으로 넓힌다는 뜻이다."
+                    answer: "공단이 시행하는 국가기술자격 491종목과 국가전문자격 37종목을 합한 수다. 공단이 소관하지 않는 시험은 들어 있지 않다. 또 전수조사는 모든 시험을 다시 채점한다는 뜻이 아니라, 위 신호로 의심 사례를 추려 들여다볼 대상을 전체 종목으로 넓힌다는 뜻이다."
+                },
+                {
+                    question: "공단 보도자료에 나온 12건은 이번 전수조사 결과인가?",
+                    answer: "아니다. 같은 보도자료에 적힌 스마트안경 적발 및 수사의뢰 12건은 올해 앞서 처리한 사례이고, 이번 전수조사가 새로 찾아낸 수가 아니다. 수사 의뢰는 조사의 시작이지 부정행위가 확정됐다는 뜻도 아니다. 공단이 밝힌 절차는 데이터로 의심 사례를 추리고, 복수의 채점 전문가가 답안지를 다시 보고, 명확히 의심된다고 판단될 때 수사를 의뢰하는 순서다."
                 },
                 {
                     question: "개발 중인 전파탐지기는 이번 수법도 잡을 수 있나?",
-                    answer: "설계된 탐지 대상은 AI 스마트글래스다. 저전력 블루투스 신호로 스마트안경의 존재와 제조사를 가려내고, 와이파이 통신량과 송수신 패턴으로 외부 전송 의심 행위를 찾는 2단계 구조다. 스마트폰·스마트워치·무선이어폰은 헛경보를 줄이려고 구분해 걸러 내야 하는 쪽에 있다. 이번 사건의 장비는 초소형 카메라와 스마트폰이었다."
+                    answer: "단정할 수 없다. 용역이 정한 탐지 대상은 AI 스마트글래스이고, 개발의 핵심 난제로 꼽힌 것은 스마트폰·스마트워치·무선이어폰을 스마트안경과 구분해 헛경보를 줄이는 일이다. 이번에 자백으로 알려진 기기는 초소형 카메라와 스마트폰이었다. 설계된 탐지 대상과 이번에 쓰인 기기가 같지 않다는 사실까지가 지금 확인되는 전부이고, 장비가 완성되기 전이라 실제 탐지 여부는 알 수 없다."
                 },
                 {
                     question: "전파탐지기는 이번 수능에 쓰이나?",
-                    answer: "쓰이지 않는다. 제안서 평가가 11월 20일이고 개발 완료 목표가 2027년 2월이라, 11월 19일 수능에는 적용할 수 없다고 한국방송통신전파진흥원이 확인했다. 사업비는 5,000만 원이고 계약 뒤 70일 안에 시제품을 내는 조건이다. 발주 시점은 보도마다 10월 26일과 11월 2일로 엇갈린다."
+                    answer: "쓰이지 않는다. 제안서 평가가 11월 20일이고 개발 완료 목표가 2027년 2월이라, 11월 19일 수능에는 적용할 수 없다고 한국방송통신전파진흥원이 확인했다. 사업비는 5,000만 원이고 계약 뒤 70일 안에 시제품을 내는 조건이다. 공고번호는 R26BK01804914-000이며, 10월 26일 사전규격 공개와 11월 2일 입찰공고로 절차가 나뉜다."
                 },
                 {
-                    question: "처벌은 어느 수준인가?",
-                    answer: "현재 적용 가능한 혐의는 위계공무집행방해로, 법정형은 5년 이하 징역 또는 1천만 원 이하 벌금이다. 앞선 AI 부정행위 사건들에서 실제 선고는 벌금형과 집행유예 선에 머물렀다는 지적이 법조계에서 나온다. 여야가 추진하는 가중처벌 특별법과 응시 제한 5년에서 10년 확대안은 아직 입법 논의 단계이고, 적용 범위와 기간은 확정되지 않았다."
+                    question: "이 합격자에게 어떤 처분이 내려졌나?",
+                    answer: "확정된 처분은 아직 없다. 고용노동부 발표에 따르면 고용노동부와 공단은 시험 무효화와 합격 취소, 5년 응시 제한 절차를 추진하고 있고 업무방해 혐의로 형사 고소하기로 했다. 추진 중인 절차이지 응시 제한이 이미 적용된 단계는 아니다. 형사 쪽에서 적용 가능한 혐의는 위계공무집행방해로, 법정형은 5년 이하 징역 또는 1천만 원 이하 벌금이다. 여야가 추진하는 가중처벌 특별법과 응시 제한 확대안은 입법 논의 단계다."
                 },
                 {
                     question: "데이터를 다루는 조직이 이 사건에서 가져갈 점은 무엇인가?",
-                    answer: "이상치 탐지가 작동하려면 세 가지가 사건 전에 있어야 한다. 비교할 과거 분포가 같은 형식으로 쌓여 있을 것, 어디서부터를 이상으로 볼지 선이 그어져 있을 것, 걸린 사례를 사람이 다시 볼 절차가 있을 것이다. 자료가 없어서 못 보는 경우와 선이 없어서 못 보는 경우는 다른 문제인데, 보고서에는 둘 다 이상 없음으로 똑같이 적힌다."
+                    answer: "통계 신호는 사람에게 볼 곳을 알려 주는 역할까지다. 그러려면 회차마다 다른 난이도와 응시자 구성을 고려한 비교가 서 있어야 하고, 정상 응시자가 잘못 표시되는 비율을 점검해야 하며, 좁혀진 대상은 독립적인 증거와 복수의 검토로 뒷받침하고 당사자에게 소명할 기회를 주어야 한다. 어떤 수치가 선을 넘었다는 이유만으로 제재가 자동으로 따라붙는 설계는 틀렸을 때 되돌릴 자리를 남기지 않는다."
                 }
             ]
         });
